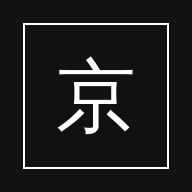
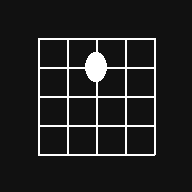
名前を「ごばん」に変え、起動演出・写真の表紙・枝分かれメニューを追加
Claude-Session: https://claude.ai/code/session_01KgCWbDQ4Ta33SCFLZ5kGSp

Changed region(s): [[0.1875, 0.1875, 0.8125, 0.8125], [0.0938, 0.0938, 0.9062, 0.9062]]

diff --git a/index.html b/index.html
@@ -8,15 +8,94 @@
 <meta name="apple-mobile-web-app-capable" content="yes">
 <meta name="mobile-web-app-capable" content="yes">
 <meta name="apple-mobile-web-app-status-bar-style" content="default">
-<meta name="apple-mobile-web-app-title" content="京都めぐり帖">
+<meta name="apple-mobile-web-app-title" content="ごばん">
 <link rel="manifest" href="manifest.webmanifest">
 <link rel="icon" href="icons/icon-192.png">
 <link rel="apple-touch-icon" href="icons/apple-touch-icon.png">
-<style>:root{padding-top:env(safe-area-inset-top,0px);padding-bottom:env(safe-area-inset-bottom,0px)}body{margin:0;font:14px system-ui,sans-serif}img{max-width:100%}[hidden]{display:none!important}</style>
-<title>京都めぐり帖</title>
+<style>:root{padding-top:env(safe-area-inset-top,0px);padding-bottom:env(safe-area-inset-bottom,0px)}body{margin:0;font:14px system-ui,sans-serif}img{max-width:100%}[hidden]{display:none!important}
+/* ---- 起動演出・表紙・枝分かれメニュー ---- */
+:root { --f-logo: "Shippori Mincho B1", "Hiragino Mincho ProN", "Yu Mincho", serif; }
+html { scroll-behavior: smooth; }
+body { padding-top: 0; }
+.logo { display: inline-flex; flex-direction: column; align-items: center; gap: 10px; line-height: 1; }
+.logo .k { font-family: var(--f-logo); font-weight: 800; font-size: 72px; letter-spacing: 0; }
+.logo .r { font-family: var(--f-mono); font-size: 11px; letter-spacing: .6em; padding-left: .6em; }
+.logo.small .k { font-size: 32px; }
+.logo.small .r { font-size: 9px; }
+#splash { position: fixed; inset: 0; z-index: 50; background: #111; color: #fff; display: grid; place-items: center; transition: opacity .5s ease; }
+#splash.out { opacity: 0; pointer-events: none; }
+#splash .logo { opacity: 0; transform: translateY(6px); animation: logoIn .7s .1s ease forwards; }
+@keyframes logoIn { to { opacity: 1; transform: none; } }
+
+#cover { position: relative; height: 100svh; min-height: 480px; margin-left: calc(-1 * max(16px, env(safe-area-inset-left, 0px))); margin-right: calc(-1 * max(16px, env(safe-area-inset-right, 0px))); margin-top: calc(-20px - env(safe-area-inset-top, 0px)); background: #111; color: #fff; overflow: hidden; display: grid; place-items: center; }
+.slides { position: absolute; inset: 0; }
+.slides img { position: absolute; inset: 0; width: 100%; height: 100%; object-fit: cover; opacity: 0; transition: opacity 1.6s ease; }
+.slides img.on { opacity: 1; }
+.slides::after { content: ""; position: absolute; inset: 0; background: rgba(0, 0, 0, .28); }
+.cover-logo { position: relative; z-index: 1; }
+.cover-cap { position: absolute; left: max(20px, env(safe-area-inset-left, 0px)); bottom: calc(24px + env(safe-area-inset-bottom, 0px)); z-index: 1; font-size: 11px; letter-spacing: .1em; max-width: 60%; }
+.cover-cap .d { font-family: var(--f-mono); display: block; opacity: .7; margin-top: 2px; }
+.cover-cap.empty { opacity: .6; }
+.cue { position: absolute; right: max(20px, env(safe-area-inset-right, 0px)); bottom: calc(24px + env(safe-area-inset-bottom, 0px)); z-index: 1; color: #fff; font-family: var(--f-mono); font-size: 11px; letter-spacing: .3em; }
+
+.menubtn, .minilogo { position: fixed; z-index: 30; color: #fff; mix-blend-mode: difference; }
+.menubtn { top: calc(18px + env(safe-area-inset-top, 0px)); right: max(20px, env(safe-area-inset-right, 0px)); font-family: var(--f-mono); font-size: 12px; letter-spacing: .3em; padding: 6px 0; }
+.minilogo { top: calc(12px + env(safe-area-inset-top, 0px)); left: max(20px, env(safe-area-inset-left, 0px)); font-family: var(--f-logo); font-weight: 800; font-size: 22px; text-decoration: none; opacity: 0; transition: opacity .3s; pointer-events: none; }
+.minilogo.show { opacity: 1; pointer-events: auto; }
+body.menu-open .menubtn, body.menu-open .minilogo { mix-blend-mode: normal; color: var(--ink); }
+
+#menu { position: fixed; inset: 0; z-index: 25; background: var(--bg); color: var(--ink); overflow-y: auto; }
+.menu-inner { min-height: 100%; padding: calc(80px + env(safe-area-inset-top, 0px)) max(28px, env(safe-area-inset-right, 0px)) 60px max(28px, env(safe-area-inset-left, 0px)); max-width: 720px; margin: 0 auto; display: grid; gap: 40px; align-content: start; }
+.menu-head { display: flex; }
+.tree, .tree ul { list-style: none; margin: 0; padding: 0; }
+.tree > li { position: relative; padding-left: 28px; }
+.tree::before { content: ""; position: absolute; }
+.tree { position: relative; border-left: 1px solid var(--ink); }
+.tree > li::before { content: ""; position: absolute; left: 0; top: 1.05em; width: 18px; border-top: 1px solid var(--ink); }
+.tree > li + li { margin-top: 18px; }
+.branch { font-size: 26px; font-weight: 500; letter-spacing: .1em; display: flex; align-items: baseline; gap: 14px; }
+.branch .en { font-family: var(--f-mono); font-size: 10px; letter-spacing: .3em; color: var(--muted); }
+.branch[aria-expanded="true"] { font-weight: 700; }
+.twigs { position: relative; margin: 14px 0 6px 6px !important; padding-left: 26px !important; border-left: 1px solid var(--ink); display: grid; gap: 10px; transform-origin: top; animation: grow .35s ease; }
+.twigs li { position: relative; }
+.twigs li::before { content: ""; position: absolute; left: -26px; top: .85em; width: 16px; border-top: 1px solid var(--ink); }
+.twig { font-size: 15px; letter-spacing: .06em; color: var(--muted); }
+.twig[aria-current="true"] { color: var(--ink); border-bottom: 1px solid var(--ink); }
+.twig:hover { color: var(--ink); }
+@keyframes grow { from { transform: scaleY(0); opacity: 0; } }
+.tree > li { opacity: 0; transform: translateX(-6px); animation: twigIn .4s ease forwards; }
+.tree > li:nth-child(2) { animation-delay: .06s; } .tree > li:nth-child(3) { animation-delay: .12s; } .tree > li:nth-child(4) { animation-delay: .18s; }
+@keyframes twigIn { to { opacity: 1; transform: none; } }
+
+.bar .current { padding: 12px 16px; border-right: 1px solid var(--ink); font-size: 13px; font-weight: 700; letter-spacing: .08em; white-space: nowrap; max-width: 55%; overflow: hidden; text-overflow: ellipsis; }
+.bar .current::after { content: " ▾"; font-weight: 400; color: var(--muted); }
+#list { padding-top: 48px; }
+#list .top { top: calc(52px + env(safe-area-inset-top, 0px)); }
+@media (max-width: 520px) {
+  .bar .current { flex-basis: 100%; max-width: none; border-right: 0; border-bottom: 1px solid var(--ink); text-align: left; }
+  .logo .k { font-size: 60px; }
+}
+@media (prefers-reduced-motion: reduce) {
+  #splash .logo, .tree > li { animation: none; opacity: 1; transform: none; }
+  .twigs { animation: none; }
+  .slides img { transition: none; }
+}
+
+.logo .k { font-weight: 500; letter-spacing: .08em; }
+.ha { position: relative; display: inline-block; }
+.ten { position: absolute; right: -.32em; top: -.12em; font-size: .62em; line-height: 1; }
+#splash .ten { opacity: 0; transform: translateY(-.8em); animation: tenDrop .45s .75s cubic-bezier(.3, 1.4, .6, 1) forwards; }
+@keyframes tenDrop { to { opacity: 1; transform: none; } }
+.minilogo .k { font-size: 18px; font-weight: 800; }
+.minilogo .ten { font-size: .7em; top: -.02em; right: -.3em; }
+.cover-cap { text-align: left; }
+.minilogo { font-size: 18px; letter-spacing: .06em; }
+@media (prefers-reduced-motion: reduce) { #splash .ten { animation: none; opacity: 1; transform: none; } }
+</style>
+<title>ごばん GOBAN</title>
 <link rel="preconnect" href="https://fonts.googleapis.com">
 <link rel="preconnect" href="https://fonts.gstatic.com" crossorigin>
-<link rel="stylesheet" href="https://fonts.googleapis.com/css2?family=DM+Mono:wght@400;500&family=Zen+Kaku+Gothic+New:wght@400;500;700&display=swap">
+<link rel="stylesheet" href="https://fonts.googleapis.com/css2?family=DM+Mono:wght@400;500&family=Shippori+Mincho+B1:wght@500;800&family=Zen+Kaku+Gothic+New:wght@400;500;700&display=swap">
 <style>
 /* Layout: 白地に黒文字だけ。写真タイルのグリッド、上に細い文字タブ、詳細は右側のシート。装飾は1pxの線と余白のみ。 */
 :root {
@@ -170,17 +249,33 @@ h1 { font-size: 15px; font-weight: 500; letter-spacing: .12em; margin: 0; white-
 
 </head>
 <body>
-<div class="wrap">
+<div id="splash" aria-hidden="true"><div class="logo"><span class="k" data-logo-k></span><span class="r" data-logo-r></span></div></div>
+
+<section id="cover" aria-label="表紙">
+  <div class="slides" id="slides"></div>
+  <div class="cover-logo logo"><span class="k" data-logo-k></span><span class="r" data-logo-r></span></div>
+  <div class="cover-cap" id="coverCap"></div>
+  <button type="button" class="cue" id="cue" aria-label="一覧へ">INDEX ↓</button>
+</section>
+
+<a class="minilogo" id="miniLogo" href="#cover" aria-label="表紙へ"><span class="k" data-logo-k></span></a>
+<button type="button" class="menubtn" id="menuBtn" aria-expanded="false" aria-controls="menu">MENU</button>
+<nav id="menu" hidden aria-label="メニュー">
+  <div class="menu-inner">
+    <div class="menu-head"><span class="logo small"><span class="k" data-logo-k></span><span class="r" data-logo-r></span></span></div>
+    <ul class="tree" id="tree"></ul>
+  </div>
+</nav>
+
+<div class="wrap" id="list">
   <div class="top">
     <div class="bar">
-      <h1>京都めぐり帖</h1>
+      <button type="button" class="current" id="current" aria-label="絞り込みを変える"></button>
       <input class="search" type="search" id="q" placeholder="さがす" aria-label="名前・説明・豆知識で検索">
       <button type="button" class="addbtn" id="addBtn">＋ 追加</button>
     </div>
-    <div class="pills" id="pills" role="group" aria-label="種類"></div>
-    <div class="sub">
-      <span id="progress"></span>
-      <span class="sp"></span>
+    <div hidden>
+      <div class="pills" id="pills"></div>
       <select id="area" aria-label="エリア"></select>
       <select id="status" aria-label="印">
         <option value="all">すべて</option>
@@ -189,6 +284,10 @@ h1 { font-size: 15px; font-weight: 500; letter-spacing: .12em; margin: 0; white-
         <option value="want">行きたい</option>
         <option value="again">また行きたい</option>
       </select>
+    </div>
+    <div class="sub">
+      <span id="progress"></span>
+      <span class="sp"></span>
       <select id="sort" aria-label="並び順">
         <option value="area">エリア順</option>
         <option value="year">古い順</option>
@@ -845,6 +944,7 @@ function render() {
   const list = filtered();
   const grid = $("#grid");
   grid.innerHTML = list.length ? list.map(pin).join("") : `<div class="empty">ここにはまだ何もありません</div>`;
+  if (typeof renderCurrent === "function") renderCurrent();
 }
 
 /* ---- sheet ---- */
@@ -971,7 +1071,7 @@ async function upload(id, file) {
     const res = await assets.upload(blob, { type: "image/jpeg" });
     const old = visits[id] && visits[id].photo;
     visits[id] = Object.assign({}, visits[id] || {}, { photo: res.id, photoRatio: ratio });
-    persist(true); render(); openSheet(id);
+    persist(true); render(); openSheet(id); renderCover();
     if (old) assets.delete(old).catch(() => {});
   } catch (err) {
     console.error(err);
@@ -1089,6 +1189,99 @@ function answerQuiz(i) {
   quizStats[c.s.id] = st;
   persist(true);
   renderQuiz();
+}
+
+
+/* ---- 起動演出・表紙・メニュー ---- */
+const APP = { r: "GOBAN" };
+// 「ごはん」の「は」に濁点が落ちて「ごばん」になるロゴ
+document.querySelectorAll("[data-logo-k]").forEach(e => { e.innerHTML = 'ご<span class="ha">は<span class="ten" aria-hidden="true">゛</span></span>ん'; e.setAttribute("aria-label", "ごばん"); });
+document.querySelectorAll("[data-logo-r]").forEach(e => e.textContent = APP.r);
+(function splash() {
+  const el = $("#splash");
+  let seen = false; try { seen = sessionStorage.getItem("splash") === "1"; sessionStorage.setItem("splash", "1"); } catch (e) {}
+  if (seen) { el.remove(); return; }
+  const out = () => { el.classList.add("out"); setTimeout(() => el.remove(), 600); };
+  el.addEventListener("click", out);
+  setTimeout(out, 1900);
+})();
+
+let slideTimer = null;
+function coverPhotos() {
+  return allSpots().filter(s => visits[s.id] && visits[s.id].photo && blobUrls[visits[s.id].photo])
+    .map(s => ({ s, url: blobUrls[visits[s.id].photo], date: visits[s.id].date || "" }))
+    .sort((a, b) => (b.date || "").localeCompare(a.date || ""));
+}
+function renderCover() {
+  const list = shuffle(coverPhotos()).slice(0, 12);
+  const box = $("#slides"), cap = $("#coverCap");
+  clearInterval(slideTimer);
+  if (!list.length) {
+    box.innerHTML = "";
+    cap.className = "cover-cap empty";
+    cap.textContent = "行った場所で撮った写真を追加すると、ここに表紙として映ります";
+    return;
+  }
+  box.innerHTML = list.map((p, i) => `<img src="${esc(p.url)}" alt="" class="${i === 0 ? "on" : ""}">`).join("");
+  let i = 0;
+  const show = () => {
+    const imgs = box.querySelectorAll("img");
+    imgs.forEach((im, k) => im.classList.toggle("on", k === i));
+    const p = list[i];
+    cap.className = "cover-cap";
+    cap.innerHTML = `${esc(shortName(p.s))}<span class="d">${esc((p.date || "").replace(/-/g, "."))}</span>`;
+  };
+  show();
+  if (list.length > 1) slideTimer = setInterval(() => { i = (i + 1) % list.length; show(); }, 5000);
+}
+$("#cue").addEventListener("click", () => $("#list").scrollIntoView());
+const io = new IntersectionObserver(([e]) => $("#miniLogo").classList.toggle("show", !e.isIntersecting), { threshold: 0.1 });
+io.observe($("#cover"));
+
+const TREE = [
+  { key: "kind", ja: "見る", en: "CATEGORY", items: () => [["all", "すべて"], ["month", THIS_MONTH + "月の行事"], ["arch", "建築"], ["classic", "寺社・名所"], ["history", "史跡"], ["festival", "祭り・行事"], ["sweets", "和菓子"], ["food", "食・老舗"], ["cafe", "喫茶"], ["church", "教会"], ["fest", "建築祭2026"], ["mine", "自分で追加"]] },
+  { key: "area", ja: "歩く", en: "AREA", items: () => [["", "全エリア"]].concat(AREAS.concat(["その他"]).map(a => [a, a])) },
+  { key: "status", ja: "しるし", en: "MARK", items: () => [["all", "すべて"], ["want", "行きたい"], ["done", "行った"], ["again", "また行きたい"], ["todo", "まだ"]] },
+  { key: "write", ja: "書く", en: "NOTE", items: () => [["add", "スポットを追加"], ["export", "記録を書き出す"], ["import", "記録を読み込む"]] },
+];
+let openBranch = null;
+function currentOf(key) { return key === "kind" ? ui.filter : key === "area" ? ui.area : key === "status" ? ui.status : null; }
+function renderTree() {
+  $("#tree").innerHTML = TREE.map(b => `<li>
+    <button type="button" class="branch" data-branch="${b.key}" aria-expanded="${openBranch === b.key}">${b.ja}<span class="en">${b.en}</span></button>
+    ${openBranch === b.key ? `<ul class="twigs">${b.items().map(([v, l]) => `<li><button type="button" class="twig" data-key="${b.key}" data-v="${esc(v)}" aria-current="${currentOf(b.key) === v}">${esc(l)}</button></li>`).join("")}</ul>` : ""}
+  </li>`).join("");
+}
+function setMenu(open) {
+  $("#menu").hidden = !open;
+  document.body.classList.toggle("menu-open", open);
+  $("#menuBtn").textContent = open ? "CLOSE" : "MENU";
+  $("#menuBtn").setAttribute("aria-expanded", open);
+  if (open) { openBranch = null; renderTree(); }
+}
+$("#menuBtn").addEventListener("click", () => setMenu($("#menu").hidden));
+$("#current").addEventListener("click", () => { setMenu(true); });
+$("#tree").addEventListener("click", e => {
+  const br = e.target.closest("[data-branch]");
+  if (br) { openBranch = openBranch === br.dataset.branch ? null : br.dataset.branch; renderTree(); return; }
+  const t = e.target.closest(".twig"); if (!t) return;
+  const k = t.dataset.key, v = t.dataset.v;
+  if (k === "write") {
+    setMenu(false);
+    if (v === "add") openForm(null); else if (v === "export") $("#exportBtn").click(); else $("#importFile").click();
+    return;
+  }
+  if (k === "kind") ui.filter = v; else if (k === "area") ui.area = v; else ui.status = v;
+  saveUi(); render(); renderTip();
+  setMenu(false);
+  $("#list").scrollIntoView();
+});
+document.addEventListener("keydown", e => { if (e.key === "Escape" && !$("#menu").hidden) setMenu(false); });
+function renderCurrent() {
+  const kindLabel = (TREE[0].items().find(([v]) => v === ui.filter) || [, "すべて"])[1];
+  const st = (TREE[2].items().find(([v]) => v === ui.status) || [, ""])[1];
+  const parts = [kindLabel, ui.area || "", ui.status !== "all" ? st : ""].filter(Boolean);
+  $("#current").textContent = parts.join(" · ");
 }
 
 /* ---- events ---- */
@@ -1229,6 +1422,7 @@ $("#importFile").addEventListener("change", async e => {
 (async () => {
   assets = localAssets;
   try { await loadPhotos(); } catch (e) { console.error(e); }
+  renderCover();
   try { if (navigator.storage && navigator.storage.persist) navigator.storage.persist(); } catch (e) {}
   render();
   if ("serviceWorker" in navigator) navigator.serviceWorker.register("sw.js").catch(() => {});

diff --git a/sw.js b/sw.js
@@ -1,5 +1,5 @@
 // 京都めぐり帖 service worker: アプリ本体はキャッシュ優先、フォントは取得時にキャッシュ
-const VERSION = "v1";
+const VERSION = "v2";
 const CORE = ["./", "index.html", "manifest.webmanifest", "icons/icon-192.png", "icons/icon-512.png", "icons/apple-touch-icon.png"];
 self.addEventListener("install", e => {
   e.waitUntil(caches.open(VERSION).then(c => c.addAll(CORE)).then(() => self.skipWaiting()));
